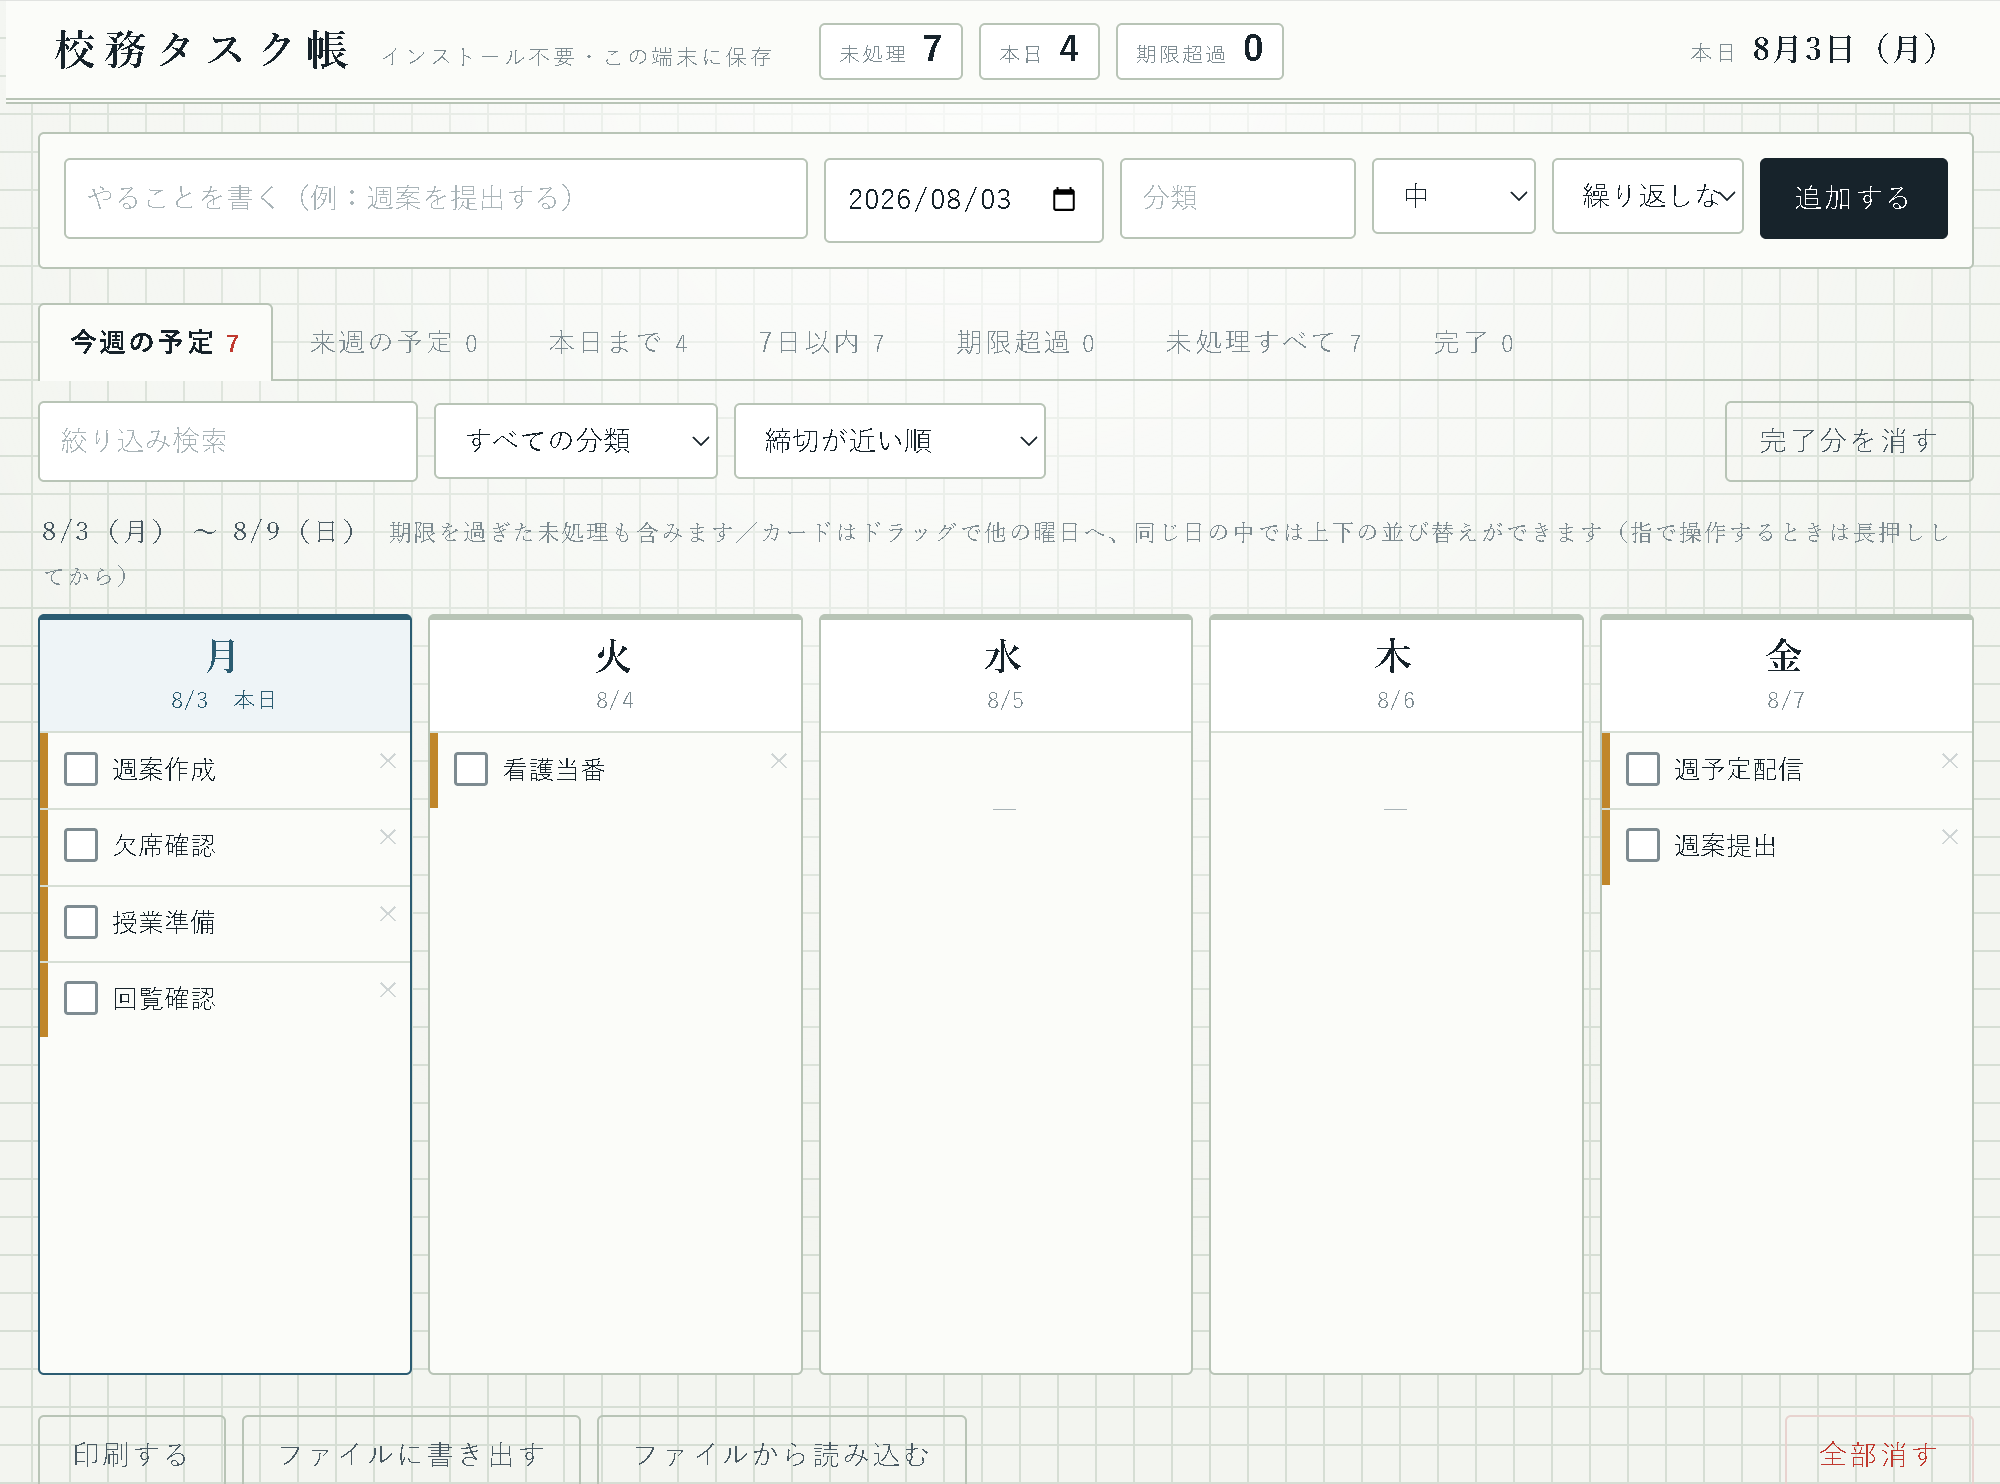
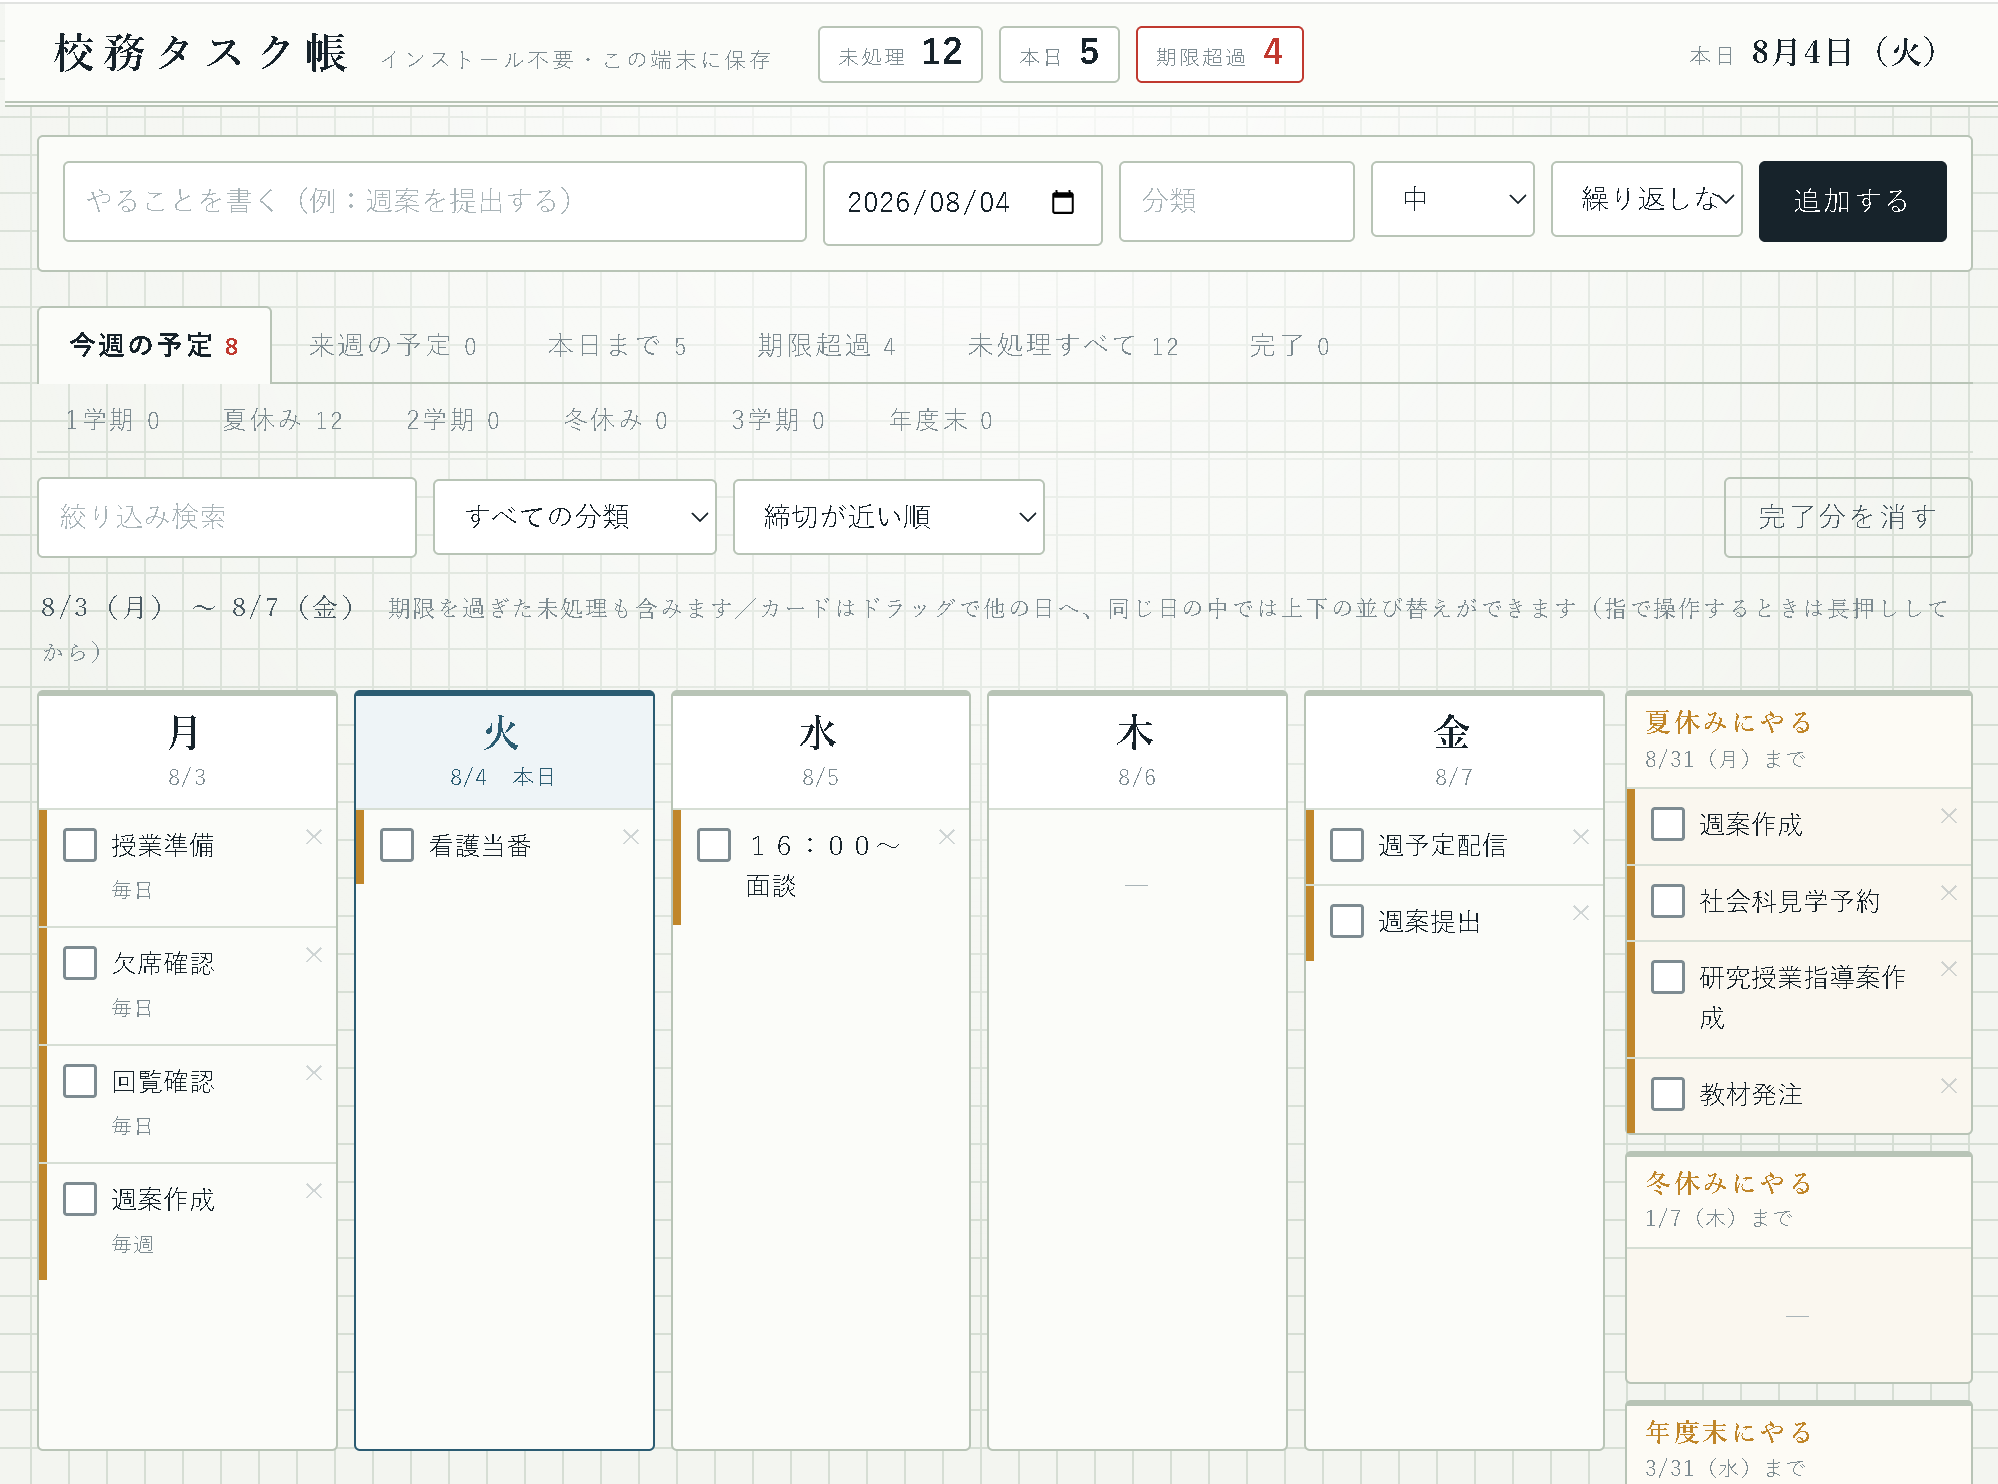
Add files via upload

diff --git a/index.html b/index.html
@@ -300,7 +300,7 @@ const softwareList = [
     tags: ["インストール不要", "校務PCで使える"],
     thumbnail: "images/task_cho.png",
     description: "Windows標準の付箋ソフトが職員室で人気だったので、改良版を作成。\nドラッグアンドドロップでタスクを移動したり、繰り返しの設定ができます。\nとても便利。",
-    download: "https://github.com/a071013n-sudo/my-tool/releases/download/task_cho/task_cho.html",
+    download: "https://github.com/a071013n-sudo/my-tool/releases/download/task_cho/task-cho.html",
     repo: "https://github.com/a071013n-sudo/my-tool"
   },
   {
